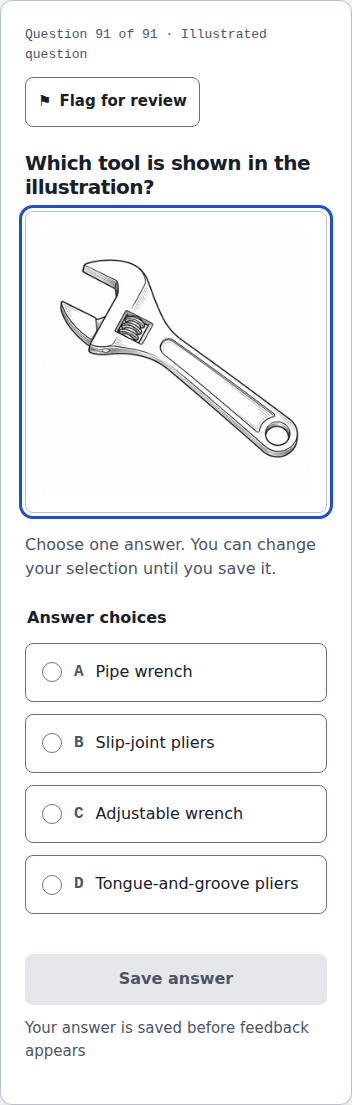
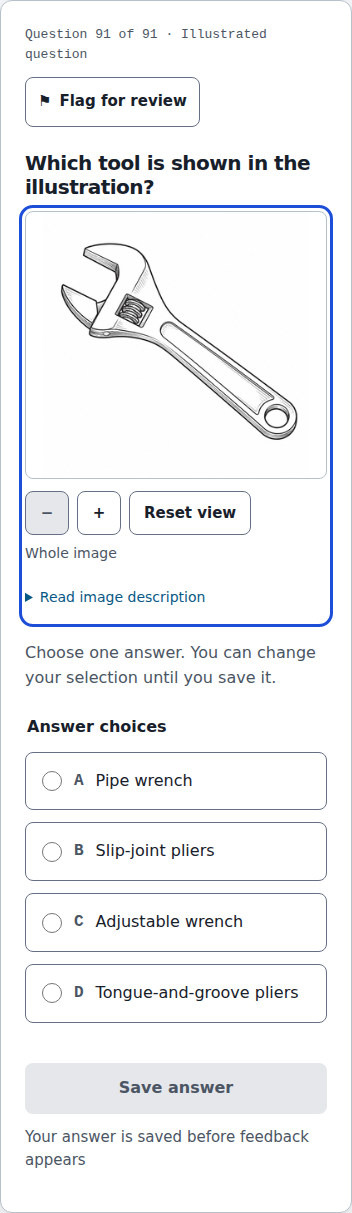
Add bounded question image zoom and neutral description controls

diff --git a/apps/site/src/question-illustration.tsx b/apps/site/src/question-illustration.tsx
@@ -1,27 +1,61 @@
-import { useRef, useState } from "react"
+import { useLayoutEffect, useRef, useState } from "react"
 import type { PrecommitQuestion } from "@nycustodian/content/model"
 
 type Illustration = NonNullable<PrecommitQuestion["illustration"]>
 
 const IllustrationImage = ({ illustration }: { readonly illustration: Illustration }) => {
   const figure = useRef<HTMLElement>(null)
+  const viewport = useRef<HTMLDivElement>(null)
   const [failed, setFailed] = useState(false)
   const [attempt, setAttempt] = useState(0)
+  const [zoom, setZoom] = useState(100)
+  const previousZoom = useRef(100)
+  useLayoutEffect(() => {
+    const element = viewport.current
+    if (element !== null) {
+      const ratio = zoom / previousZoom.current
+      element.scrollTo({
+        left: zoom === 100 ? 0 : (element.scrollLeft + element.clientWidth / 2) * ratio - element.clientWidth / 2,
+        top: zoom === 100 ? 0 : (element.scrollTop + element.clientHeight / 2) * ratio - element.clientHeight / 2
+      })
+    }
+    previousZoom.current = zoom
+  }, [zoom])
   const web = illustration.derivatives.find(asset => asset.kind === "web")
   const phone = illustration.derivatives.find(asset => asset.kind === "phone")
+  const resetView = () => {
+    setZoom(100)
+    viewport.current?.scrollTo({ top: 0, left: 0 })
+  }
   if (web === undefined) return <p role="alert">The question illustration is unavailable. Skip this question for now.</p>
-  return <figure ref={figure} className="question-illustration" tabIndex={-1} aria-label="Question illustration">
+  return <figure ref={figure} className="question-illustration question-illustration-interactive" tabIndex={-1} aria-label="Question illustration">
     {failed ? <div className="notice notice-warning" role="alert">
       <p>The question illustration could not load. Try again, or skip this question for now.</p>
       <button className="button button-secondary" type="button" onClick={() => {
         figure.current?.focus()
+        resetView()
         setAttempt(value => value + 1)
         setFailed(false)
       }}>Try image again</button>
-    </div> : <picture key={attempt}>
-      {phone === undefined ? null : <source media="(max-width: 30rem)" srcSet={`/${phone.path}`} />}
-      <img src={`/${web.path}`} alt={illustration.neutralDescription} onError={() => setFailed(true)} />
-    </picture>}
+    </div> : <>
+      <div ref={viewport} className="question-image-viewport" role="region" aria-label="Scrollable question illustration" tabIndex={0}>
+        <div className="question-image-stage" style={{ width: `${zoom}%`, height: `${zoom}%` }}>
+          <picture key={attempt}>
+            {phone === undefined ? null : <source media="(max-width: 30rem)" srcSet={`/${phone.path}`} />}
+            <img src={`/${web.path}`} alt={illustration.neutralDescription} onError={() => setFailed(true)} />
+          </picture>
+        </div>
+      </div>
+      <div className="question-image-controls" role="group" aria-label="Illustration zoom">
+        <button className="button button-secondary" type="button" aria-label="Zoom out" disabled={zoom === 100} onClick={() => setZoom(value => Math.max(100, value - 50))}>−</button>
+        <button className="button button-secondary" type="button" aria-label="Zoom in" disabled={zoom === 400} onClick={() => setZoom(value => Math.min(400, value + 50))}>+</button>
+        <button className="button button-secondary" type="button" onClick={resetView}>Reset view</button>
+        <span role="status">{zoom === 100 ? "Whole image" : `${zoom}%`}</span>
+      </div>
+    </>}
+    <figcaption>
+      <details className="question-image-description"><summary>Read image description</summary><p>{illustration.neutralDescription}</p></details>
+    </figcaption>
   </figure>
 }
 

diff --git a/apps/site/browser-tests/question-illustration.pw.ts b/apps/site/browser-tests/question-illustration.pw.ts
@@ -94,3 +94,37 @@ test("released illustration retry keeps keyboard focus through repeated failures
   expect(postcommit).toEqual([])
   await expect(page.getByRole("radio", { name: "Adjustable wrench", exact: true })).not.toBeChecked()
 })
+
+for (const width of [384, 1053]) {
+  test(`illustration zoom, keyboard scroll, reset, and description work at ${width}px`, async ({ page }) => {
+    await page.setViewportSize({ width, height: 900 })
+    const postcommit: string[] = []
+    page.on("request", request => { if (request.url().includes("/postcommit/")) postcommit.push(request.url()) })
+    await page.goto("/practice/session/launch-v1/question/91/")
+    const viewport = page.getByRole("region", { name: "Scrollable question illustration", exact: true })
+    const image = viewport.locator("img")
+    await expect.poll(() => image.evaluate(node => (node as HTMLImageElement).naturalWidth)).toBeGreaterThan(0)
+    const original = await viewport.evaluate(node => ({ width: node.clientWidth, height: node.clientHeight, scrollWidth: node.scrollWidth, scrollHeight: node.scrollHeight }))
+    expect(original.scrollWidth).toBe(original.width)
+    expect(original.scrollHeight).toBe(original.height)
+    await expect(page.getByRole("button", { name: "Zoom out", exact: true })).toBeDisabled()
+    await page.getByRole("button", { name: "Zoom in", exact: true }).click()
+    await expect(page.locator(".question-image-controls [role=status]")).toHaveText("150%")
+    expect(await viewport.evaluate(node => node.scrollWidth)).toBeGreaterThan(original.width)
+    await viewport.focus()
+    const beforeScroll = await viewport.evaluate(node => node.scrollTop)
+    await page.keyboard.press("ArrowDown")
+    await expect.poll(() => viewport.evaluate(node => node.scrollTop)).toBeGreaterThan(beforeScroll)
+    for (let i = 0; i < 5; i++) await page.getByRole("button", { name: "Zoom in", exact: true }).click()
+    await expect(page.getByRole("button", { name: "Zoom in", exact: true })).toBeDisabled()
+    await expect(page.locator(".question-image-controls [role=status]")).toHaveText("400%")
+    await page.getByRole("button", { name: "Reset view", exact: true }).click()
+    await expect(page.locator(".question-image-controls [role=status]")).toHaveText("Whole image")
+    expect(await viewport.evaluate(node => ({ left: node.scrollLeft, top: node.scrollTop }))).toEqual({ left: 0, top: 0 })
+    await page.getByText("Read image description", { exact: true }).click()
+    await expect(page.locator(".question-image-description p")).toHaveText((await image.getAttribute("alt"))!)
+    expect(postcommit).toEqual([])
+    await expect(page.getByRole("radio", { name: "Adjustable wrench", exact: true })).not.toBeChecked()
+    expect(await page.evaluate(() => document.documentElement.scrollWidth)).toBeLessThanOrEqual(width)
+  })
+}

diff --git a/apps/site/src/design-system.css b/apps/site/src/design-system.css
@@ -1182,3 +1182,16 @@
   .atlas-image-recovery p { font-size: 0.9375rem; }
   .atlas-image-recovery a { display: inline-flex; align-items: center; min-block-size: 2.75rem; font-size: 0.875rem; font-weight: var(--weight-bold); }
 }
+
+@layer overrides {
+  .question-illustration-interactive { display: grid; gap: 0.75rem; padding: 0; border: 0; background: transparent; }
+  .question-image-viewport { overflow: auto; block-size: min(20rem, 70vw); border: var(--border-thin) solid var(--color-border); border-radius: 0.5rem; background: var(--color-surface); }
+  .question-image-stage { min-inline-size: 100%; min-block-size: 100%; }
+  .question-image-stage picture { inline-size: 100%; block-size: 100%; }
+  .question-illustration .question-image-stage img { inline-size: 100%; block-size: 100%; max-block-size: none; aspect-ratio: auto; object-fit: contain; }
+  .question-image-controls { display: flex; flex-wrap: wrap; align-items: center; gap: 0.5rem; }
+  .question-image-controls .button { min-inline-size: 2.75rem; min-block-size: 2.75rem; padding: 0.5rem 0.875rem; font-size: 0.9375rem; }
+  .question-image-controls [role="status"], .question-image-description { font-size: 0.875rem; color: var(--color-text-muted); }
+  .question-image-description summary { padding-block: 0.625rem; min-block-size: 2.75rem; color: var(--color-action); cursor: pointer; }
+  .question-image-description p { margin-block: 0.5rem 0; }
+}

diff --git a/design-review/2026-09-07/IMPLEMENTATION-STATUS.md b/design-review/2026-09-07/IMPLEMENTATION-STATUS.md
@@ -10,7 +10,7 @@ The active task is the complete handoff in `/mnt/models/dev/nycustodianexam/IMPL
 | Simulation setup | SETUP-ATLAS-REVIEW.md, effective lengths/timing/format; no exam prerequisite | Final integrated capture/checks |
 | Practice/Hazard builder | PRACTICE-BUILDER-REVIEW.md and HAZARD-BUILDER-REVIEW.md: effective builders, custom navigation and exact saved-history receipts | Hazard page composition updated with desktop/compact/no-JS evidence; Practice composition/direct-link focus updated with desktop/compact captures and three-browser checks; Practice/Hazard summaries reconciled with desktop/compact evidence and 15 targeted browser passes; final integrated comparison remains; CROSS-BROWSER-WORKFLOWS.md records 27 three-browser builder/Review passes, including real offline save/feedback; WebKit emulation issue isolated with a minimal reproduction; custom import passes in Chromium |
 | Atlas catalog | Nine-family desktop/compact controls, all 65 images, eligibility/failure states | ATLAS-RECORD-REVIEW.md: sampled record/family reflow, readable missing-image fallback, all 65 records audited and reference-only capture; matching 990px catalog comparison corrected five-column sizing/typography, with 12 three-browser checks and final-audit captures; closing provenance note and visible-failure recovery implemented with current release metadata, 15 browser checks, and 12 refreshed captures; platform typography differences and sampled record-view limits documented |
-| Question player | QUESTION-PLAYER-REVIEW.md: text card/action reconciliation, real-state captures, 14 browser checks | Illustrated binding, compiler, shared player and retained print image support implemented; q091 released in pack v4 with actual save/reload/Review checks and four captures; historical question/hazard import and activity restoration verified; no-JavaScript responsive illustration verified; 11 actual illustrated PDF pages inspected; illustrated estimates now match four captured PDF samples; origin-disconnected illustrated practice and historical custom feedback tested; real installed version-3 → version-4 upgrade passes in all three browsers with saved-question restoration and pinned simulation resumption; retry focus loss reproduced and corrected with 15 browser checks and eight captures; image zoom/reset and visible text-description presentation remain |
+| Question player | QUESTION-PLAYER-REVIEW.md: text card/action reconciliation, real-state captures, 14 browser checks | Illustrated binding, compiler, shared player and retained print image support implemented; q091 released in pack v4 with actual save/reload/Review checks and four captures; historical question/hazard import and activity restoration verified; no-JavaScript responsive illustration verified; 11 actual illustrated PDF pages inspected; illustrated estimates now match four captured PDF samples; origin-disconnected illustrated practice and historical custom feedback tested; real installed version-3 → version-4 upgrade passes in all three browsers with saved-question restoration and pinned simulation resumption; retry focus loss reproduced and corrected with 15 browser checks and eight captures; image zoom/reset and neutral description disclosure implemented with 21 browser checks and 12 captures; authored linked nonvisual variant and final answered-state comparison remain |
 | Hazard player | HAZARD-PLAYER-REVIEW.md: responsive workspace, header/save panel, nine real-state captures and nine regression tests | Visual/keyboard layout, integrated retained-image overlay, correction/safe groups and compact recovery captured; final cross-browser and matching-width visual audit remain |
 | Simulation player/results | SIMULATION-NAVIGATOR-REVIEW.md and SIMULATION-FLOW-REVIEW.md: navigator, player/timer and question-result captures at 1008/384; restore/focus checks; 24 three-browser regressions pass | Visual/keyboard hazard player/results now captured at both widths; no-concerns target corrected and six three-browser hazard regressions pass; final integrated audit and separate Static Assets check remain |
 | Print configuration | Ten products and effective controls; reviewed document scope | PRINT-OUTPUT-REVIEW.md: actual Letter/A4 question PDFs and searchable-text fix; preview rows/actions and warning/error panels reconciled; twelve ready/recovery captures and 27 three-browser print checks pass; fresh Letter/A4 PDFs retain searchable text; all 45 extended large-print/tool PDF pages audited and grid-fragmentation overlap fixed; current PDFs and per-page verification retained; 42 hazard worksheet/answer/text PDF pages audited with pagination fixes; large-print heading/URL sizing fixed with fresh PDF evidence; source-inclusive hazard estimates now finalize from assembled content; final other-product PDF refresh remains |

diff --git a/design-review/2026-09-07/QUESTION-PLAYER-REVIEW.md b/design-review/2026-09-07/QUESTION-PLAYER-REVIEW.md
@@ -417,3 +417,38 @@ The final canonical question has no next item, explaining the missing Skip
 action in this q091 capture; earlier text-player checks cover skip navigation.
 The invisible live region remains intentionally invisible. The full question
 player visual audit is still open.
+
+## Zoom/reset and visible neutral description — September 9
+
+The shared question illustration now has explicit zoom-out/in and Reset view
+controls. Zoom runs from 100% to 400% in 50-point steps, with disabled endpoints
+and a polite percentage status. At 100% the complete accepted image fits the
+viewport; the 20rem desktop image region matches reference 26's height without
+copying its accidental crop. Compact height is bounded by viewport width.
+
+A labeled, focusable native scroll region supports keyboard arrow scrolling and
+normal touch scrolling when zoomed. Zoom retains the viewing center; Reset
+restores 100% and both scroll offsets. These states are local presentation only,
+with no answer selection, persistence, or postcommit reads. Retry preserves the
+previous stable-figure focus behavior and resets the image view.
+
+“Read image description” is a native disclosure containing exactly the existing
+reviewed neutral description. It remains available when an image fails. This
+is deliberately labeled as an image description: the maintained component
+contract also requires an authored nonvisual question prompt/observable-facts
+variant and a link to it. That separate content/model/routing requirement is
+not satisfied by revealing alt text and remains implementation work.
+
+Validation: full build/artifact verification, site/browser typechecks, and two
+illustration view tests pass. All 21 illustration browser checks pass across
+Chromium, Firefox, and WebKit. Six new checks cover compact/desktop whole-image
+bounds, 150–400% zoom, keyboard scrolling, reset offsets, neutral description
+identity, page reflow, no selected answer, and no postcommit request. Existing
+retry, saved feedback/Review, and no-JavaScript image tests remain green.
+
+Twelve captures now cover unanswered, 200% zoom, expanded description, failed
+image, keyboard retry, and answered states at 1053/384. Visually inspected the
+800px desktop unanswered card, compact zoom, and expanded neutral description.
+The reference fixture and released q091 contain different tools/options; the
+actual reviewed question remains unchanged. A genuine linked nonvisual variant
+and final answered-state comparison remain open.
